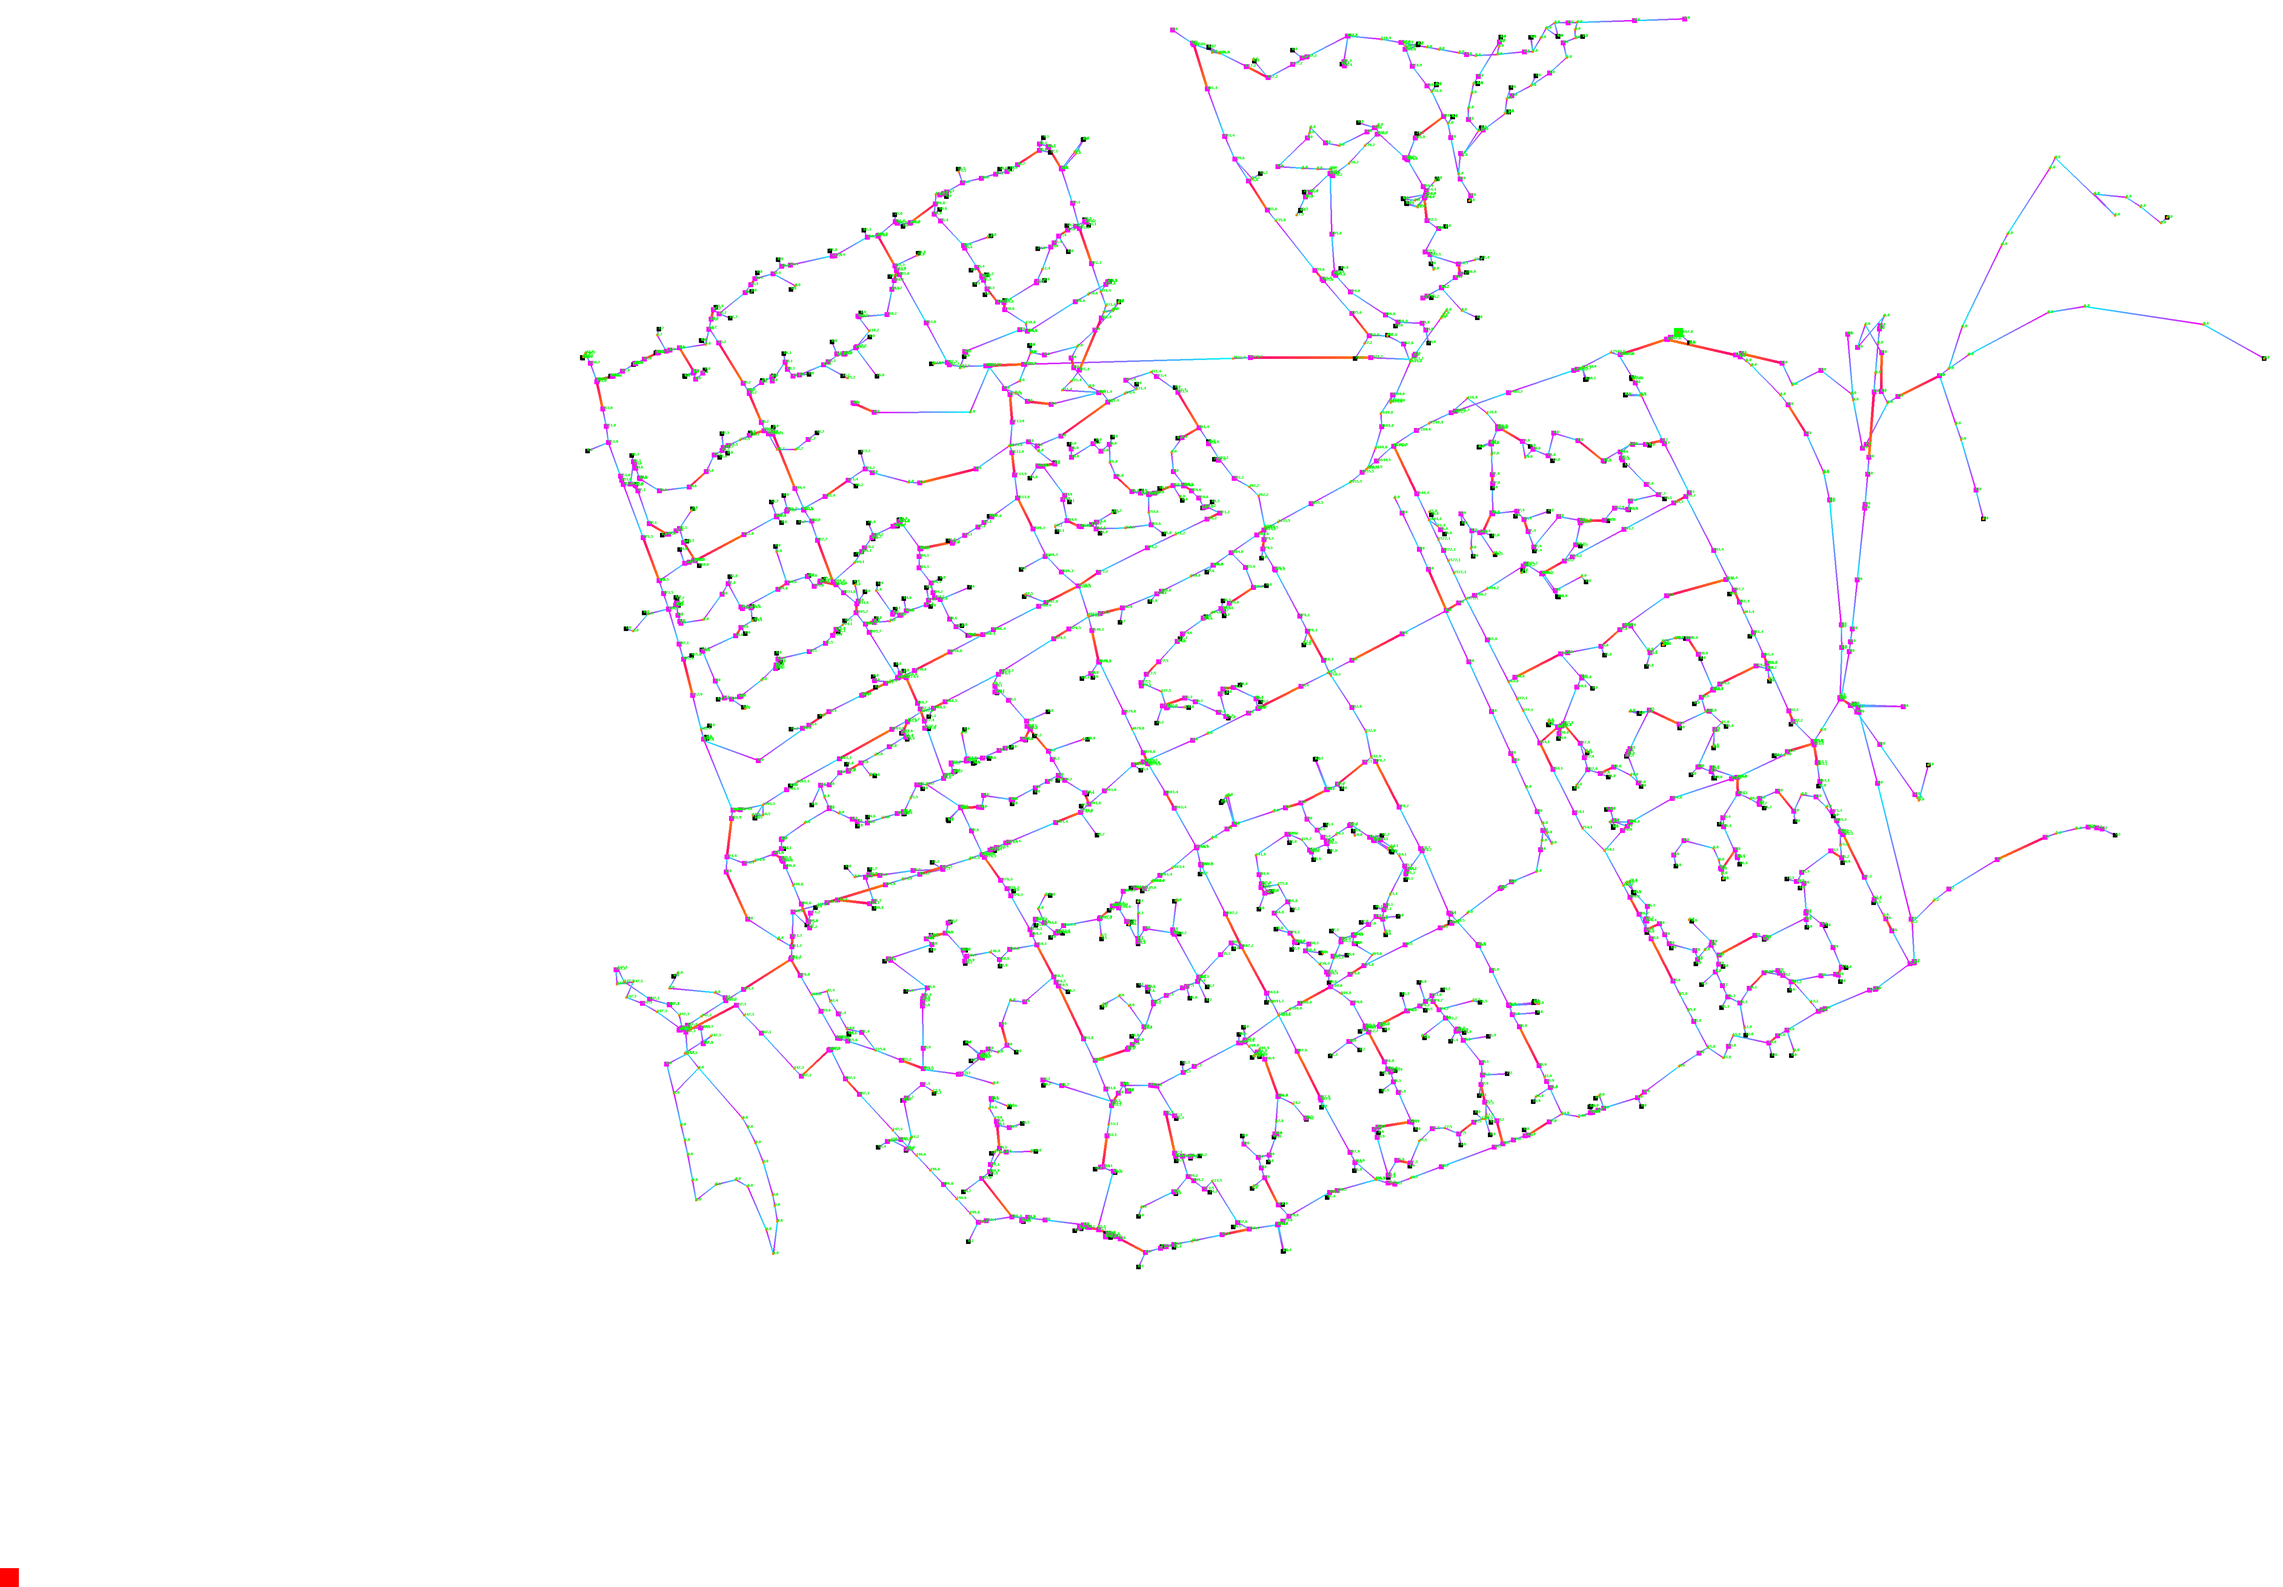
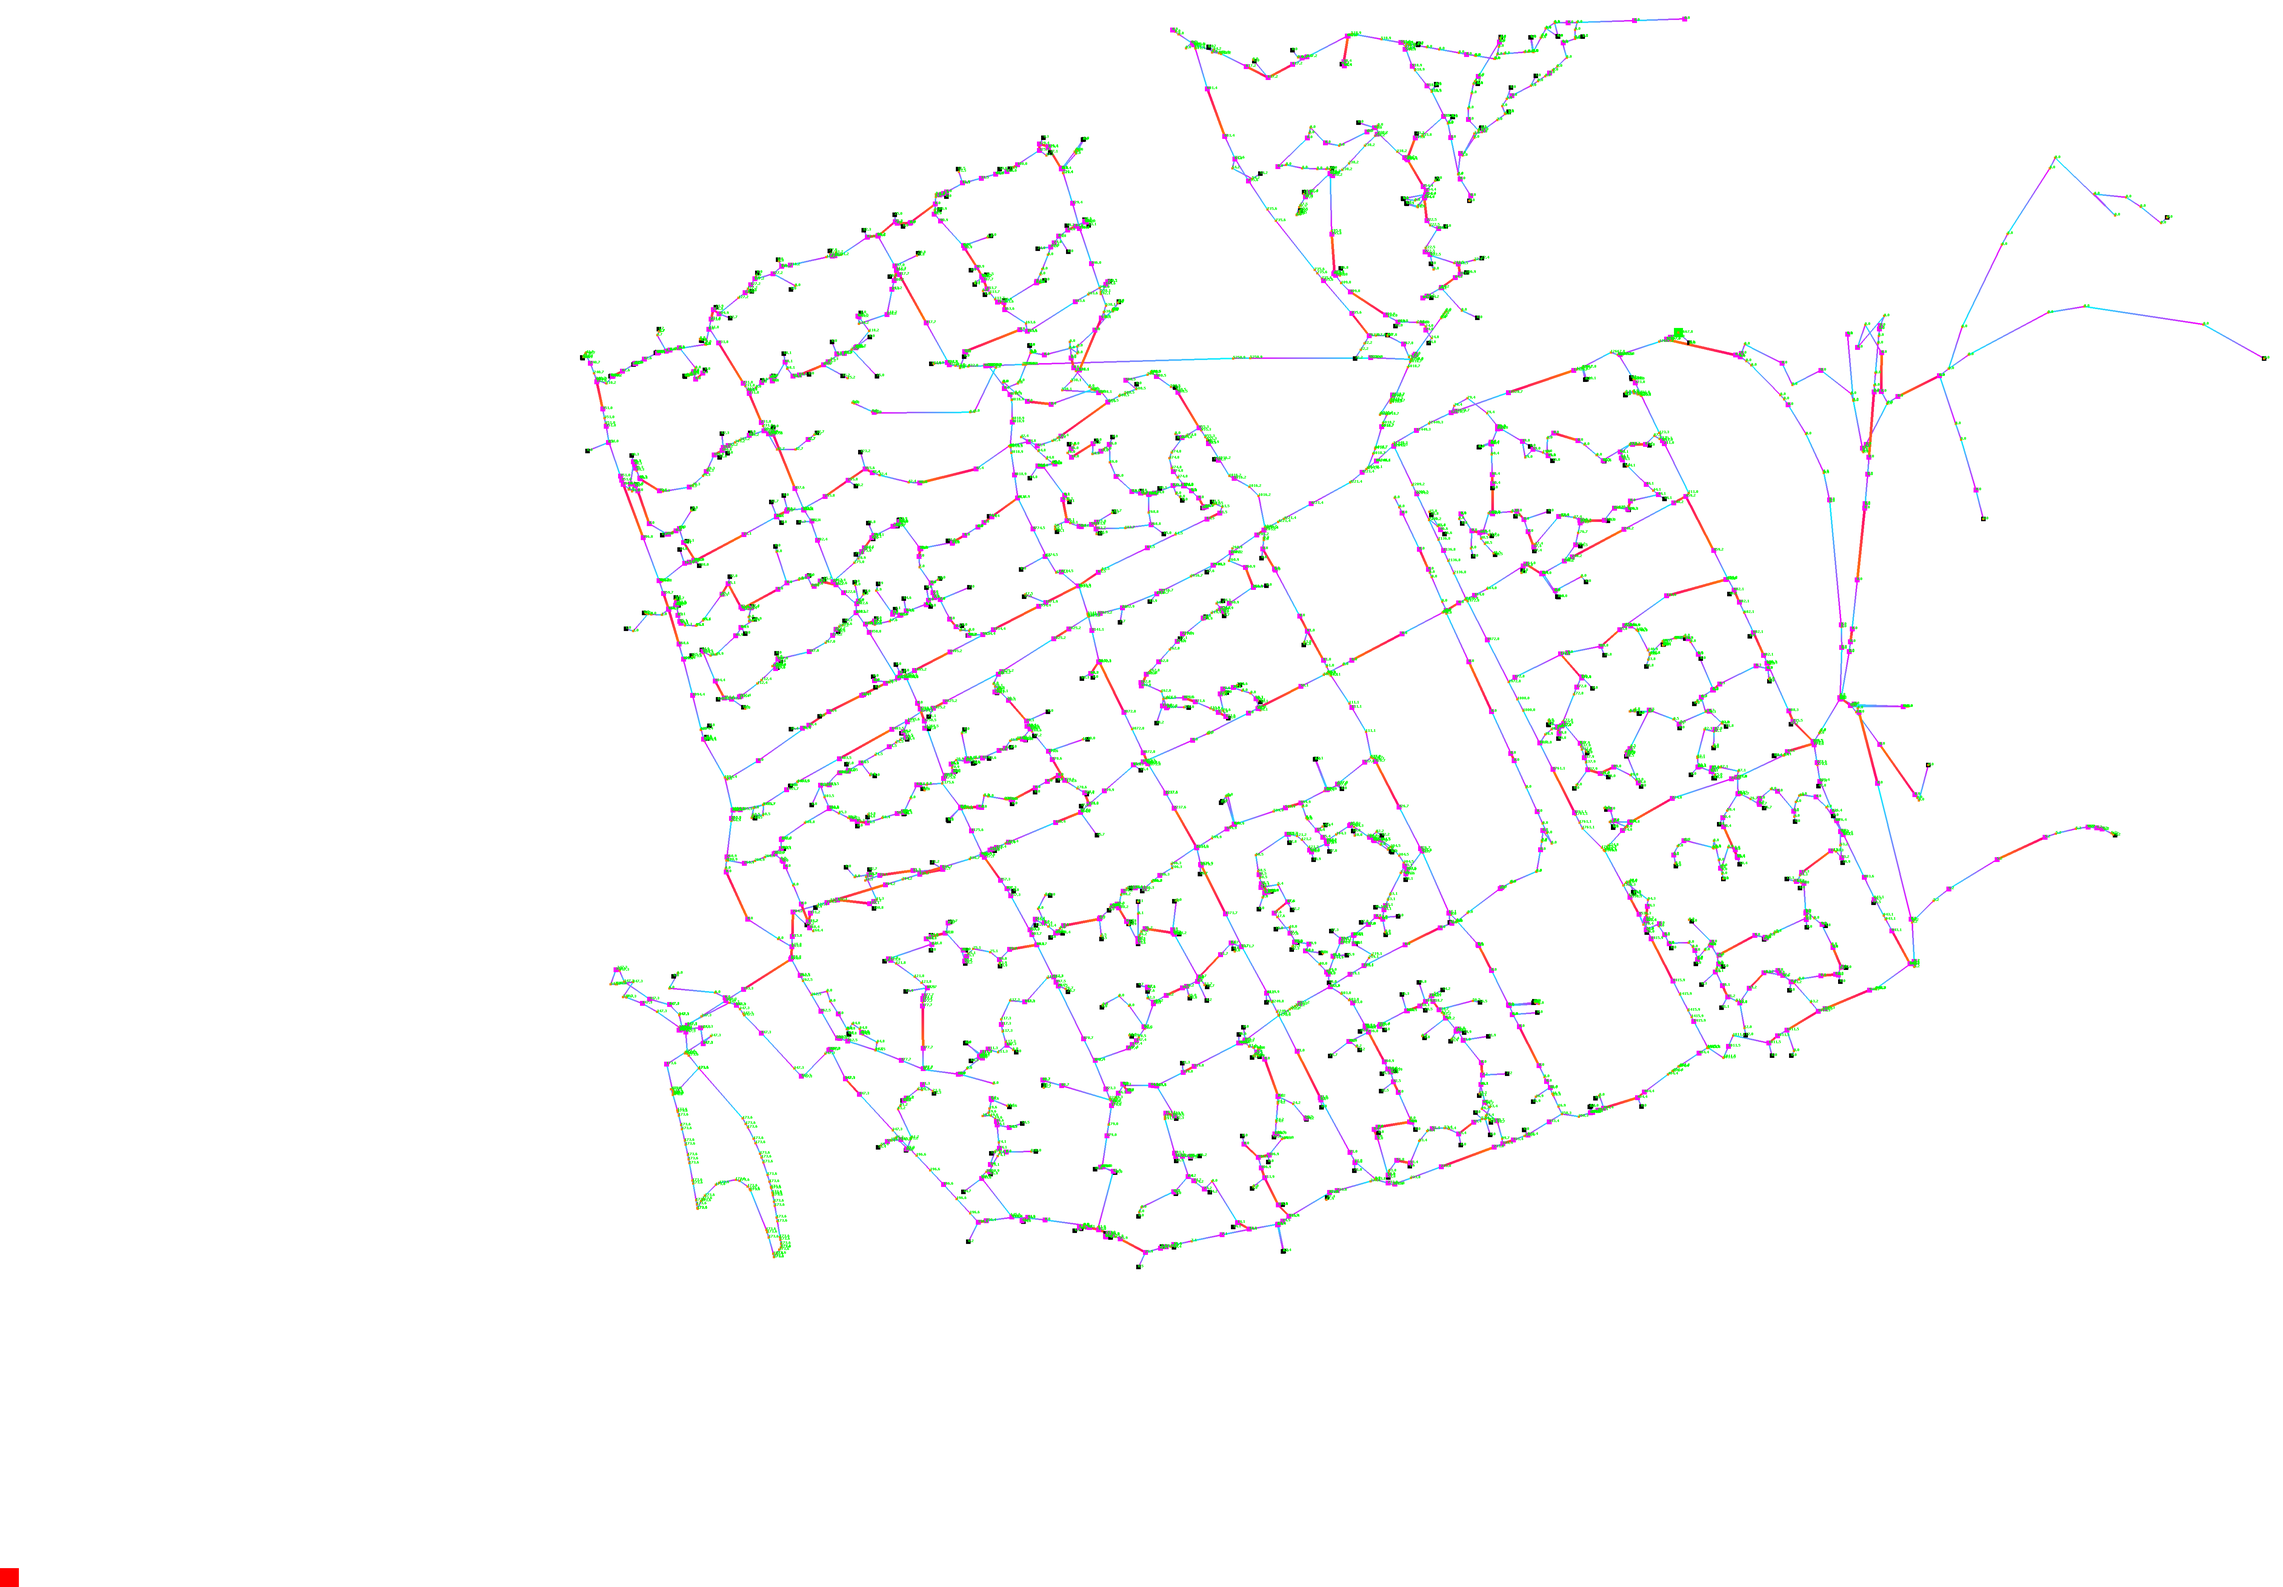
fix

diff --git a/src/main/java/bachelorThesisPlayground/graphBuilding/GraphBuilding.java b/src/main/java/bachelorThesisPlayground/graphBuilding/GraphBuilding.java
@@ -461,15 +461,15 @@ public class GraphBuilding {
 					pointToDelete = (graph.edgesOf(e.a).size() < graph.edgesOf(e.b).size()) ? e.a : e.b;
 				}
 				
-				if (e.length > 2) { //to avoid layout artifacts
-					if (graph.edgesOf(pointToDelete).size() != 2) {
+				if (e.length > 1) { //to avoid layout artifacts
+					/*if (graph.edgesOf(pointToDelete).size() != 2) {
 						continue;
 					} 	
 					List<Edge> edges = new ArrayList<Edge>(graph.edgesOf(pointToDelete));
 					
 					if (edges.get(0).diameter != edges.get(1).diameter) {
 						continue;
-					}
+					}*/continue;
 				}
 				
 				return new Pair<>(e, pointToDelete);

diff --git a/src/main/java/bachelorThesisPlayground/Main.java b/src/main/java/bachelorThesisPlayground/Main.java
@@ -106,7 +106,7 @@ public class Main {
 		magicalEdgesOfSmallestComponent.addAll(getEntriesOfComponent(component, smallestComponent));
 		magicalEdgesOfSmallestComponent.addAll(getExitsOfComponent(component, smallestComponent));
 		
-		while (magicalEdgeCount > 300) {
+		while (magicalEdgeCount > 350) {
 			
 			Edge bestEdgeForDeletion = null;
 			double bestMetricValue = Double.MAX_VALUE;
